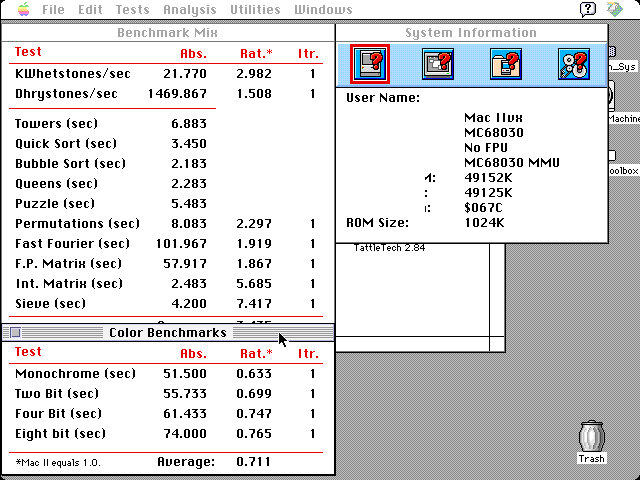
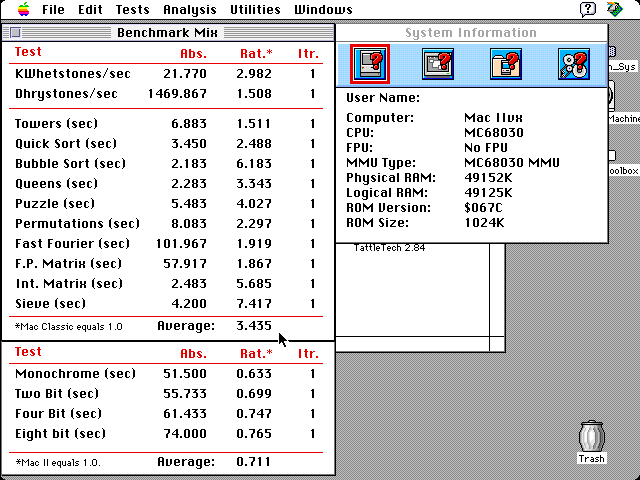
docs: clean full-table Speedometer grab (owner-requested redraw) + exact ratios

diff --git a/docs/resume_2026-08-16_capture_on_ready.md b/docs/resume_2026-08-16_capture_on_ready.md
@@ -126,11 +126,11 @@ parked numbers from the owner's morning session/table):
 |---|---:|---:|---:|---:|
 | KWhetstones/sec | 24.213 | 3.316 | 21.770 | 2.982 |
 | Dhrystones/sec | 1344.086 | 1.379 | 1469.867 | 1.508 |
-| Towers (sec) | 7.883 | 1.319 | 6.883 | ~1.51 |
-| Quick Sort | 6.300 | 1.362 | 3.450 | ~2.49 |
-| Bubble Sort | 8.000 | 1.688 | 2.183 | ~6.19 |
-| Queens | 5.967 | 1.279 | 2.283 | ~3.34 |
-| Puzzle | 14.917 | 1.480 | 5.483 | ~4.03 |
+| Towers (sec) | 7.883 | 1.319 | 6.883 | 1.511 |
+| Quick Sort | 6.300 | 1.362 | 3.450 | 2.488 |
+| Bubble Sort | 8.000 | 1.688 | 2.183 | 6.183 |
+| Queens | 5.967 | 1.279 | 2.283 | 3.343 |
+| Puzzle | 14.917 | 1.480 | 5.483 | 4.027 |
 | Permutations | 14.600 | 1.272 | 8.083 | 2.297 |
 | Fast Fourier | 88.433 | 2.213 | 101.967 | 1.919 |
 | F.P. Matrix | 49.367 | 2.190 | 57.917 | 1.867 |
@@ -138,8 +138,7 @@ parked numbers from the owner's morning session/table):
 | Sieve | 16.300 | 1.911 | 4.200 | **7.417** |
 | **Average** | | **1.805** | | **3.435** |
 
-(~ rows were covered by the done-dialog in the first grab; derived as
-parked_rat x parked_abs / cache_abs — confirm from the clean grab.)
+(All ratios confirmed from the redrawn-window grab the owner requested.)
 
 **CPU average 1.805 → 3.435 (+90%).** Gap to the physical P600 (7.136):
 3.95x → **2.08x**. Gap to the physical LC II (4.471): 2.48x → **1.30x**.
